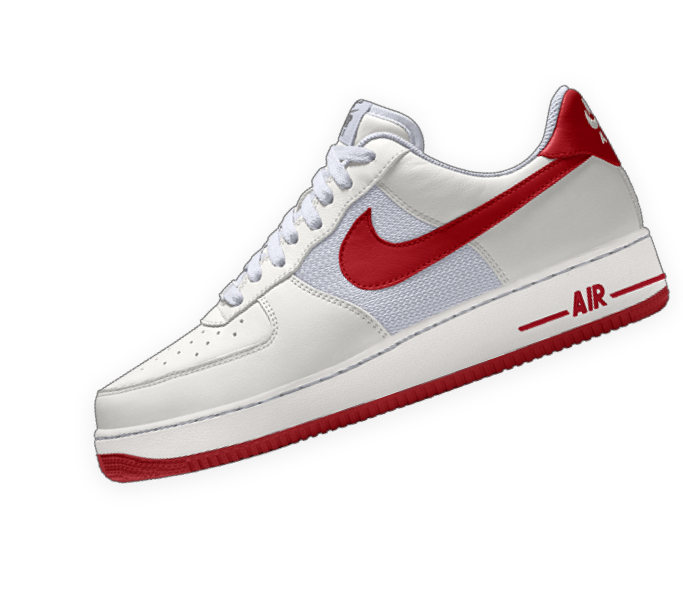
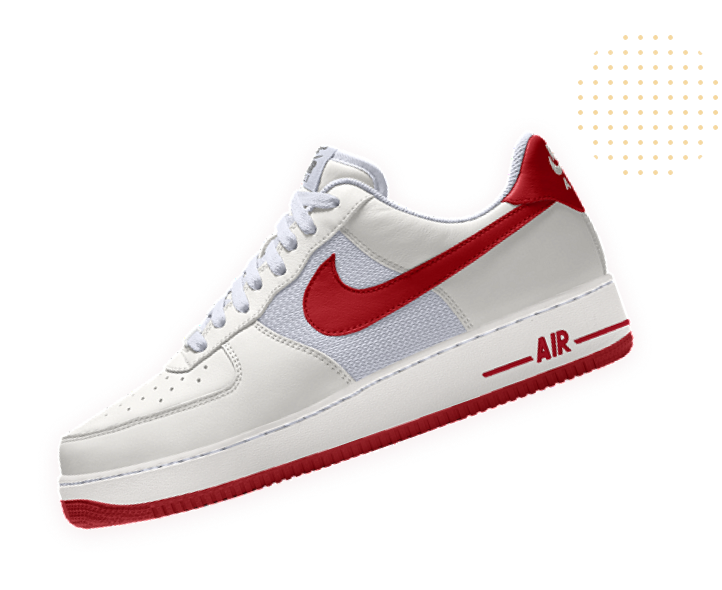
ajustes de responsividade no componente Hero

Changed region(s): [[0.0615, 0.061, 0.9839, 0.9153], [0.9839, 0.122, 1.0, 0.2136]]

diff --git a/client/src/components/Hero.jsx b/client/src/components/Hero.jsx
@@ -7,21 +7,20 @@ import heroProduct from '../assets/images/hero-product.png';
 export default function Hero() {
   return (
     <>
-      <section className="hero px-20 flex items-center justify-center bg-[#f5f5f5]">
-        <div className="flex flex-col items-start justify-center gap-2">
+      <section className="w-full p-7 flex flex-col-reverse items-center justify-center bg-[#f5f5f5] sm:p-20 sm:flex-row sm:justify-start lg:gap-20">
+        <div className="flex flex-col items-center justify-center gap-3 sm:items-start">
           <Subtitles type="primary">Melhores ofertas personalizadas</Subtitles>
           <Title type="primary">
-            Queima de
-            <br />
-            stoque Nike 🔥
+            Queima de <br />
+            estoque Nike 🔥
           </Title>
           <Text type="description">
-            Consequat culpa exercitation mollit nisi except <br /> do do tempor
-            laboris eiusmod irure consecte.
+            Consequat culpa exercitation mollit nisi except do do tempor laboris
+            eiusmod irure consecte.
           </Text>
           <Button type="default" color="pink" title={'Ver ofertas'} />
         </div>
-        <div className="w-[600px]">
+        <div className="w-full sm:max-w-[600px]">
           <img src={heroProduct} alt="White sneakers" />
         </div>
       </section>

diff --git a/client/src/components/Text.jsx b/client/src/components/Text.jsx
@@ -4,7 +4,7 @@ export default function Text(props) {
       {props.type === 'description' && (
         <p
           className={
-            'text-[#474747] font-normal text-lg leading-[34px] tracking-[0.75px]'
+            'text-[#474747] max-w-[450px] font-normal text-center text-sm sm:text-lg sm:text-left sm:leading-[34px] leading-[22px] tracking-[0.25px] sm:tracking-[0.75px]'
           }
         >
           {props.children}

diff --git a/client/src/components/Subtitles.jsx b/client/src/components/Subtitles.jsx
@@ -4,7 +4,7 @@ export default function Subtitles(props) {
       {props.type === 'primary' && (
         <h2
           className={
-            'text-[#F6AA1C] font-bold text-[16px] leading-[24px] tracking-[0.75px]'
+            'text-[#F6AA1C] text-center sm:text-left font-bold text-[16px] leading-[24px] tracking-[0.75px]'
           }
         >
           {props.children}

diff --git a/client/src/components/Title.jsx b/client/src/components/Title.jsx
@@ -2,7 +2,9 @@ export default function Title(props) {
   return (
     <>
       {props.type === 'primary' && (
-        <h1 className={`font-extrabold text-6xl text-[#1F1F1F]`}>
+        <h1
+          className={`font-extrabold text-5xl text-center md:text-6xl sm:text-left text-[#1F1F1F]`}
+        >
           {props.children}
         </h1>
       )}

diff --git a/client/src/components/Button.jsx b/client/src/components/Button.jsx
@@ -20,7 +20,7 @@ export default function Button(props) {
 
     ${
       props.type === 'default' &&
-      'px-9 py-3 text-sm font-bold leading-5 tracking-wider rounded'
+      'px-9 py-3 w-full sm:w-auto text-sm font-bold leading-5 tracking-wider rounded '
     }
 
     `}

diff --git a/client/src/pages/UiView.jsx b/client/src/pages/UiView.jsx
@@ -6,7 +6,7 @@ export default function UiTest() {
   return (
     <main className="w-full">
       <Hero />
-      <TrendingProducts />
+      {/* <TrendingProducts /> */}
       <CollectionCards />
     </main>
   );
